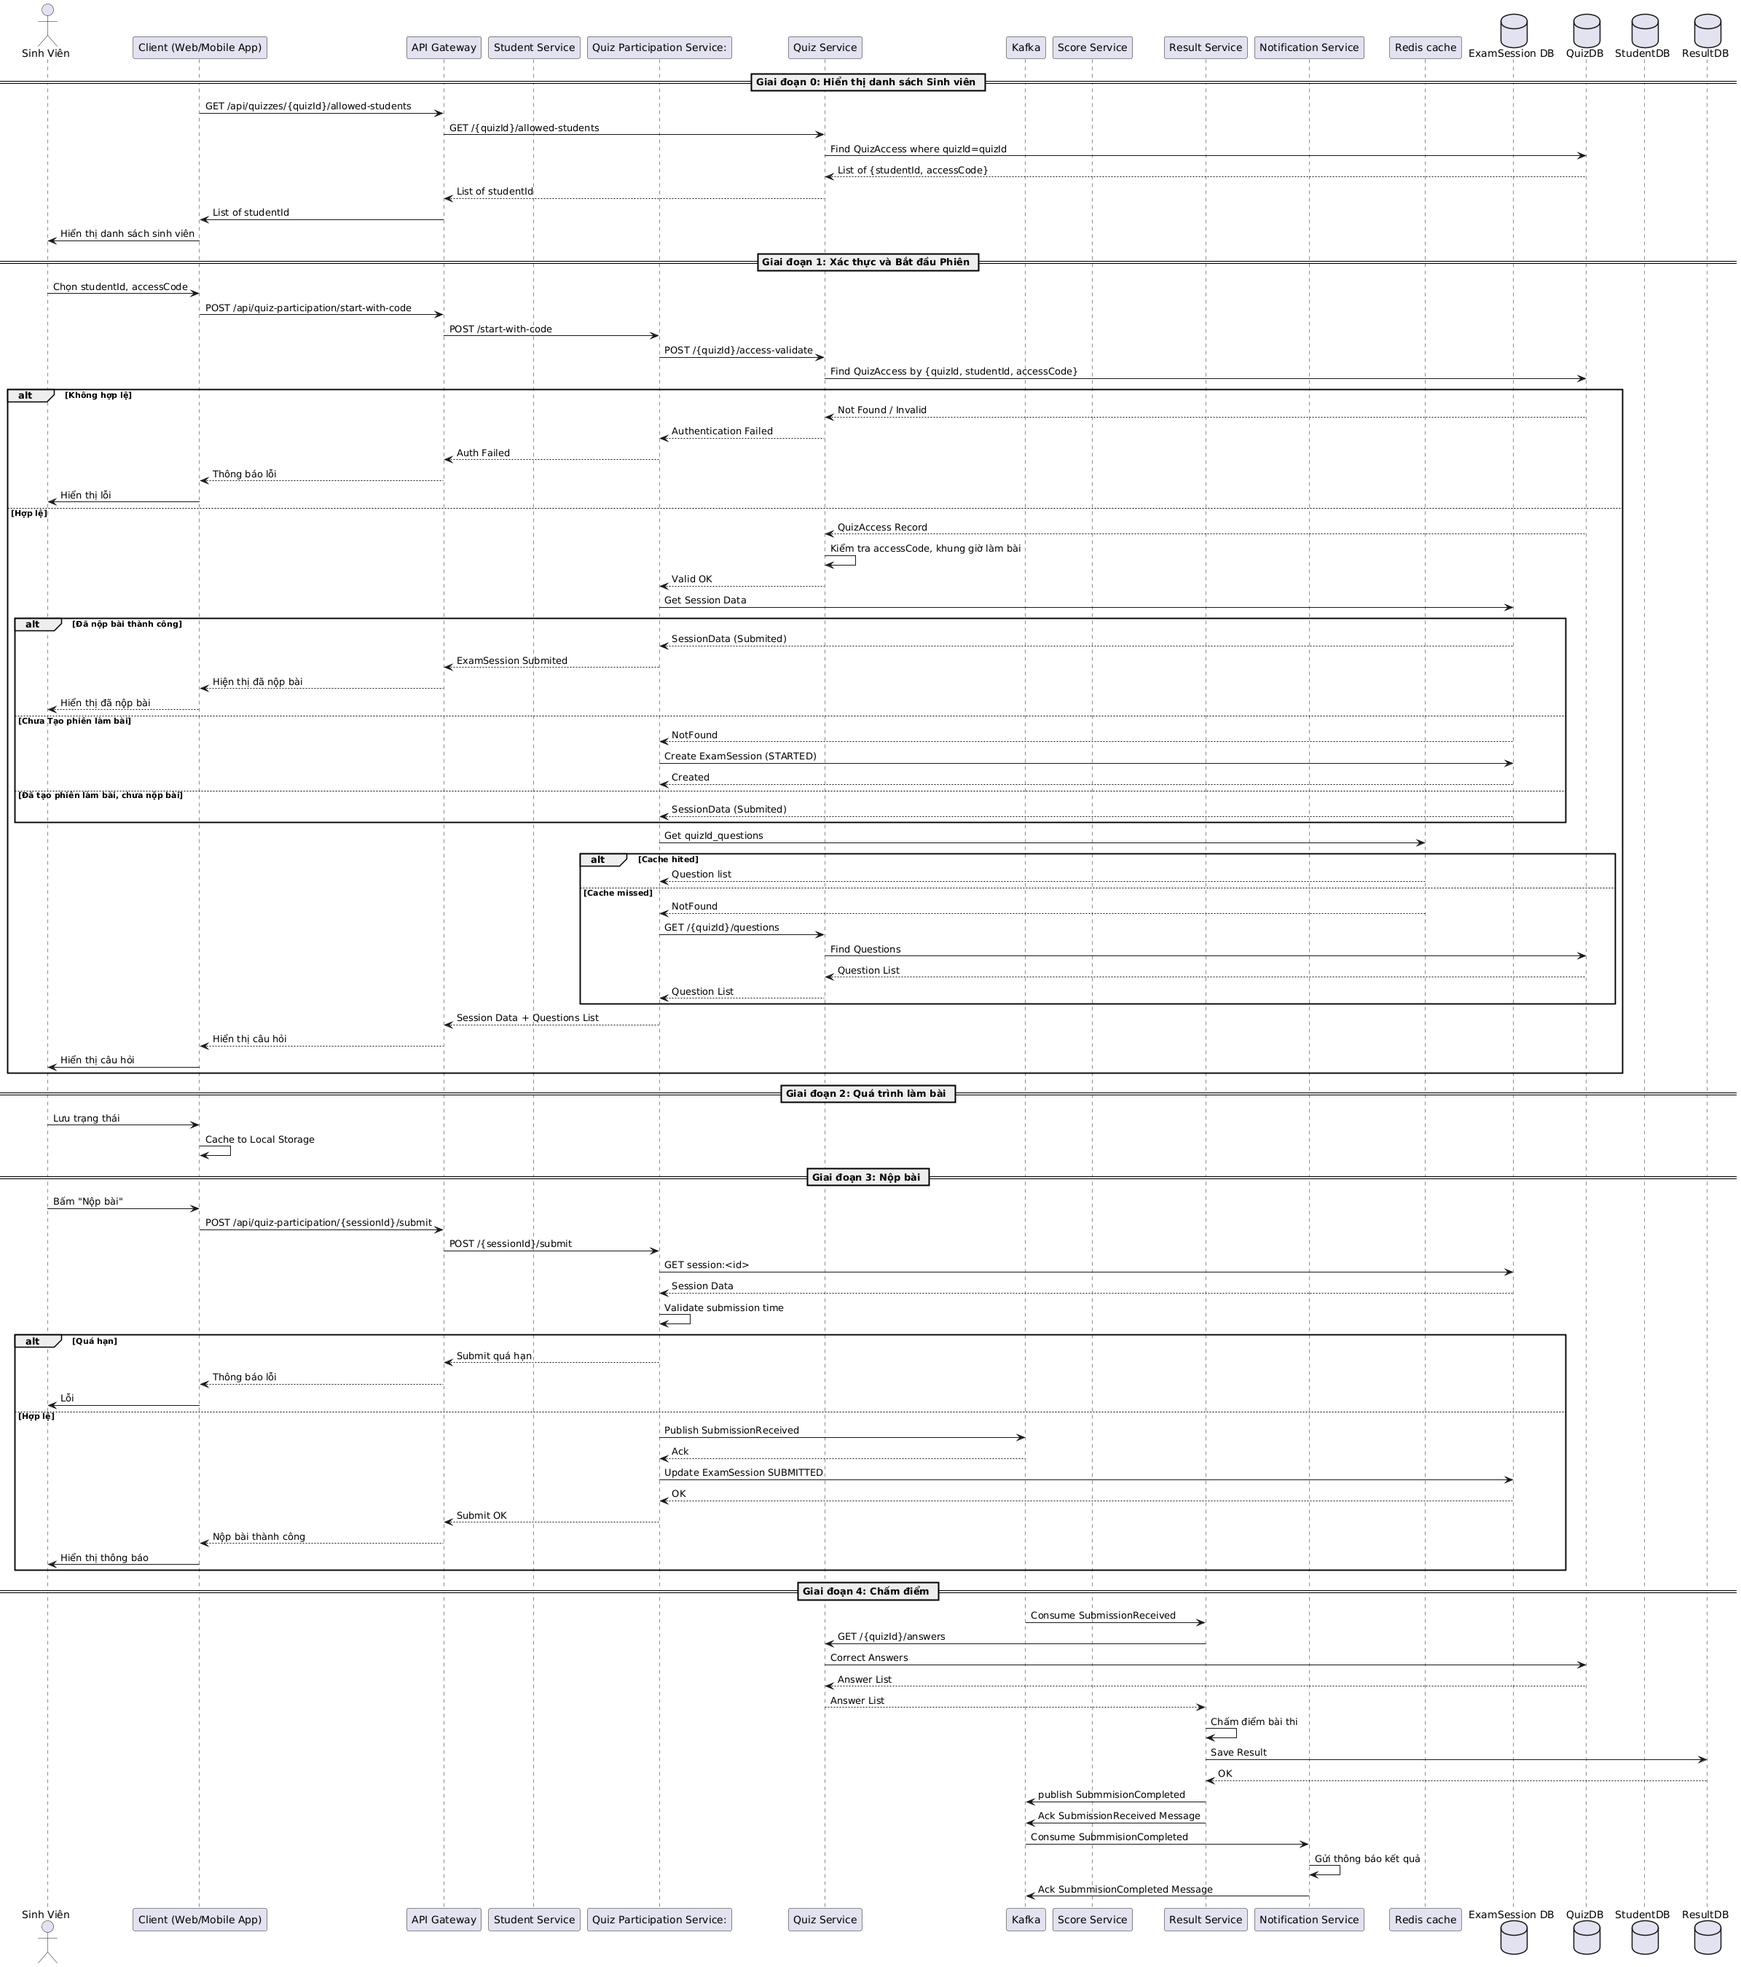
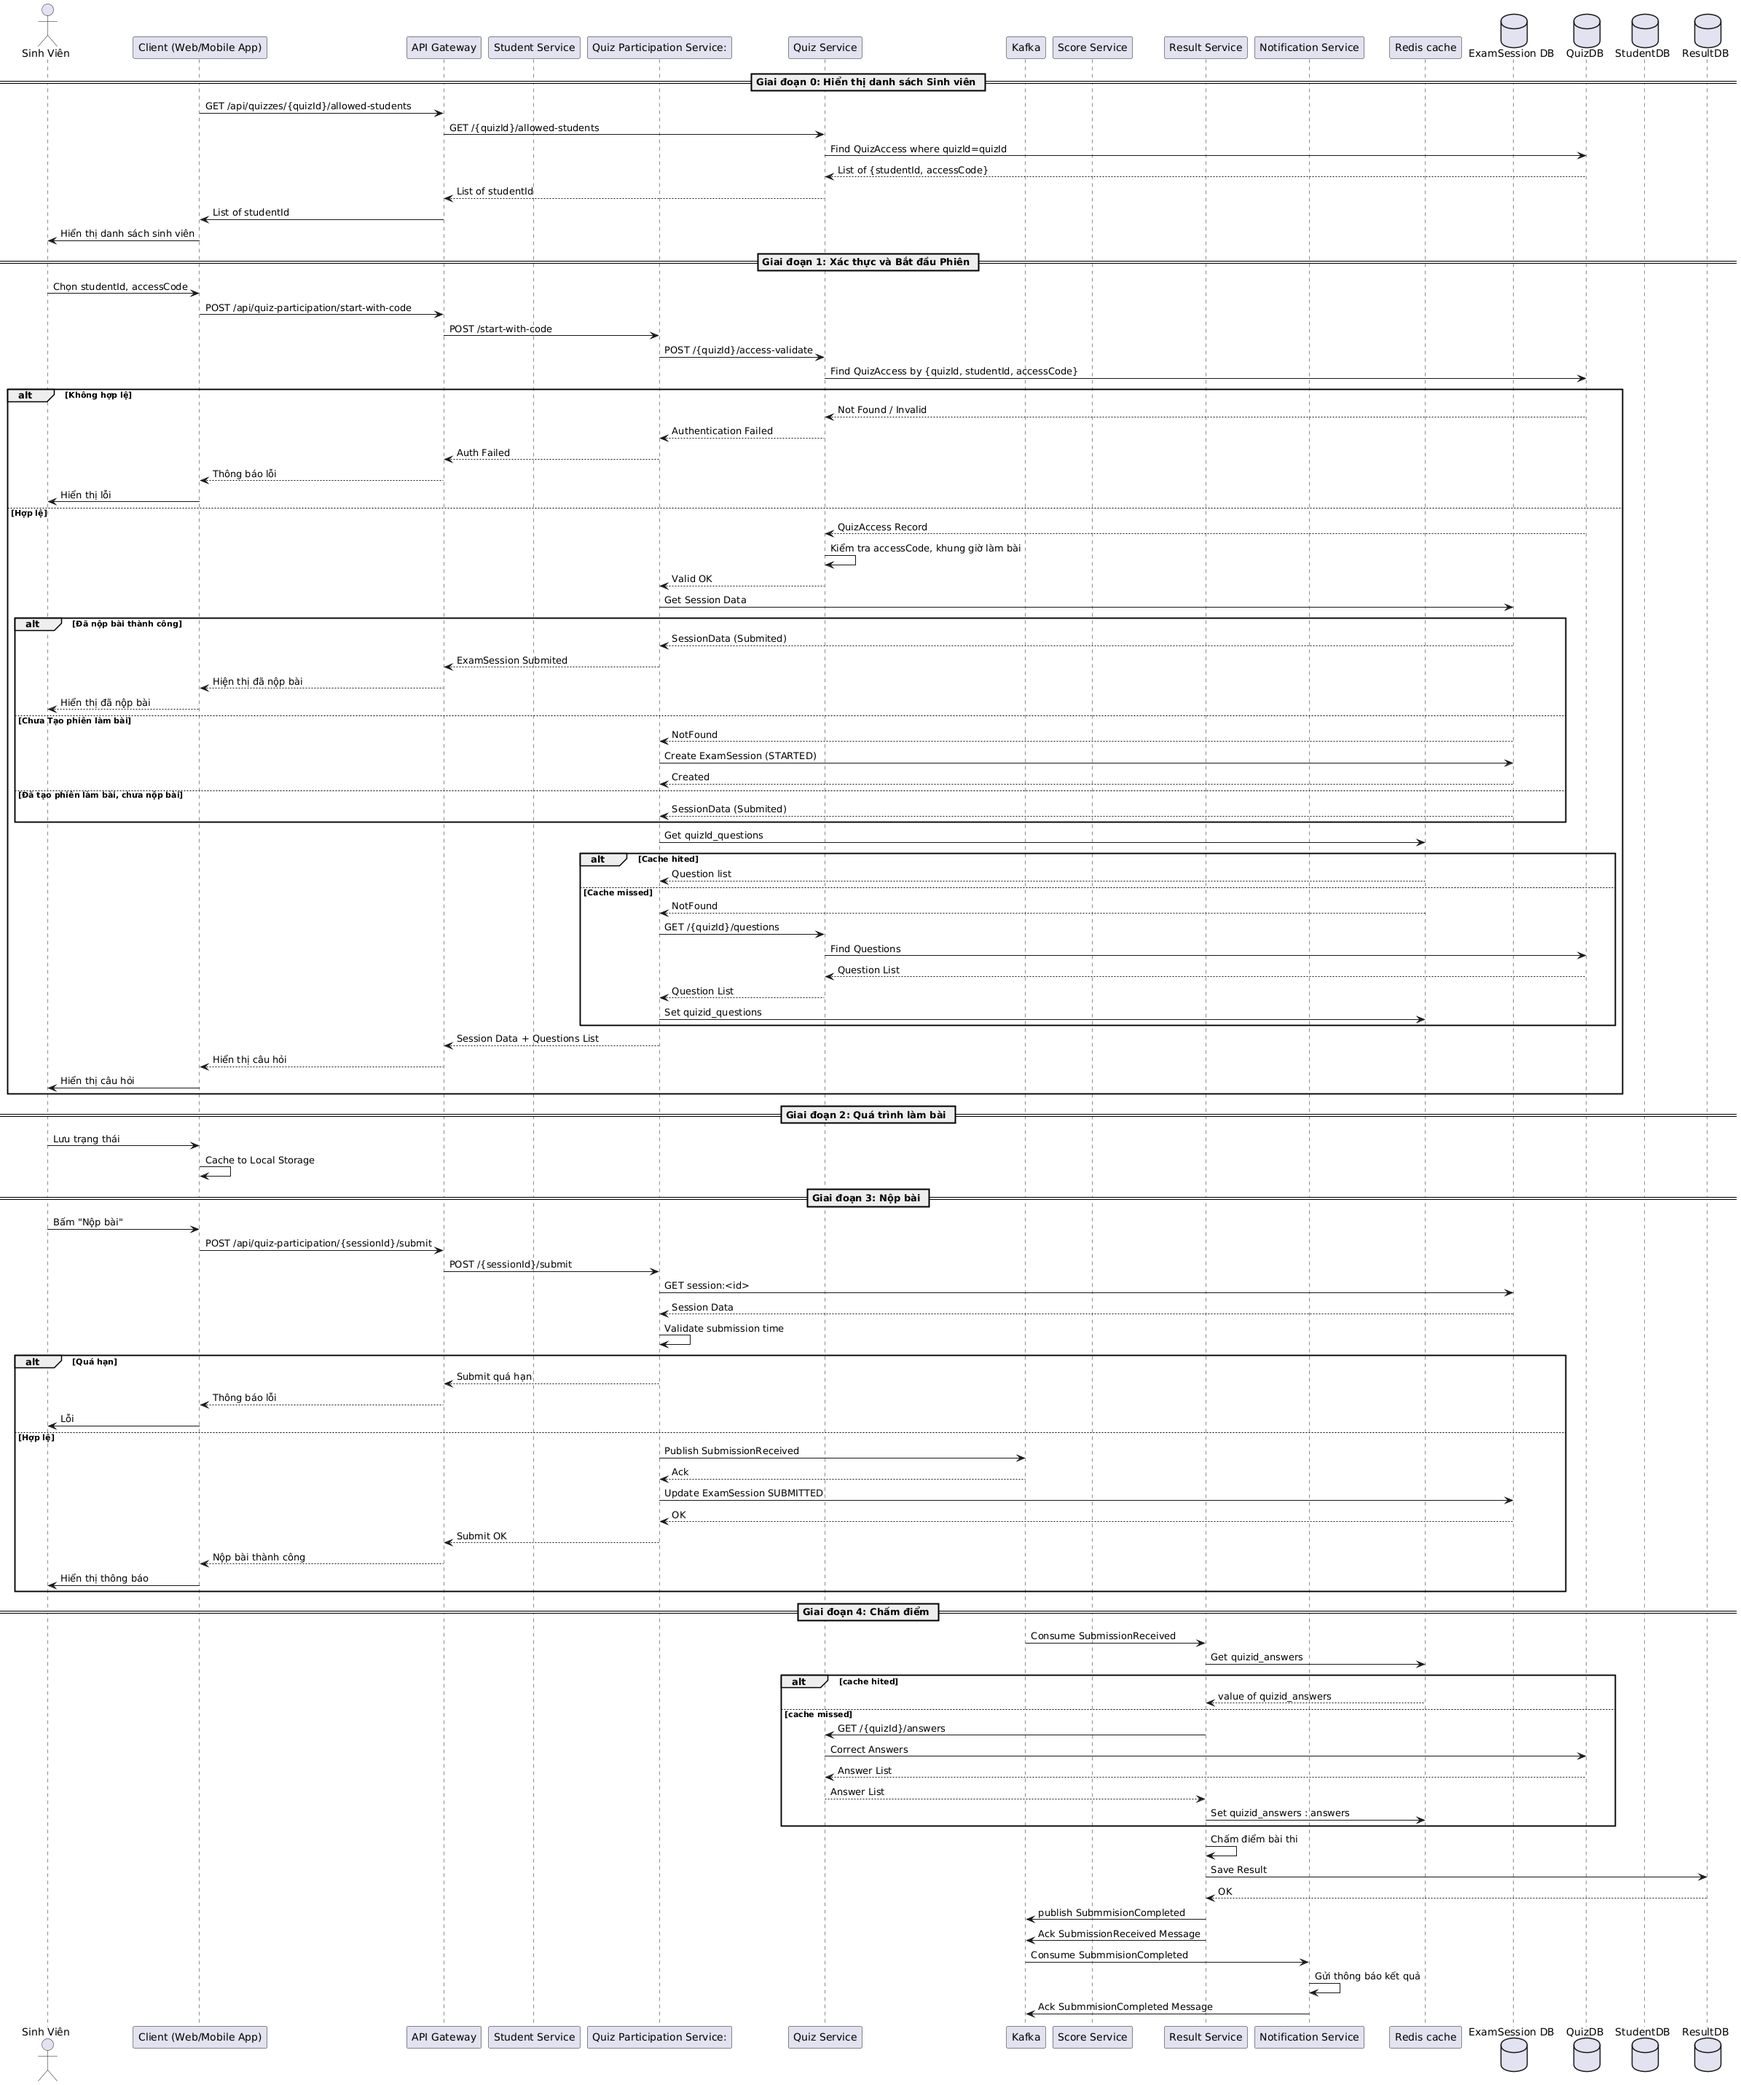
init docker compose infra services

diff --git a/services/quiz-participation-service/src/main/java/com/ptit/soa2025/quizparticipationservice/config/RestTemplateConfig.java b/services/quiz-participation-service/src/main/java/com/ptit/soa2025/quizparticipationservice/config/RestTemplateConfig.java
@@ -1,31 +1,31 @@
-package com.ptit.soa2025.quizparticipationservice.config;
-
-import org.springframework.beans.factory.annotation.Value;
-import org.springframework.boot.web.client.RestTemplateBuilder;
-import org.springframework.context.annotation.Bean;
-import org.springframework.context.annotation.Configuration;
-import org.springframework.web.client.RestTemplate;
-
-import java.time.Duration;
-
-@Configuration
-public class RestTemplateConfig {
-    
-    @Value("${services.quiz-service.url}")
-    private String quizServiceUrl;
-    
-    @Value("${services.connection.timeout:5000}")
-    private int connectionTimeout;
-    
-    @Value("${services.read.timeout:5000}")
-    private int readTimeout;
-    
-    @Bean(name = "quizServiceRestTemplate")
-    public RestTemplate quizServiceRestTemplate() {
-        return new RestTemplateBuilder()
-                .rootUri(quizServiceUrl)
-                .setConnectTimeout(Duration.ofMillis(connectionTimeout))
-                .setReadTimeout(Duration.ofMillis(readTimeout))
-                .build();
-    }
-}
+//package com.ptit.soa2025.quizparticipationservice.config;
+//
+//import org.springframework.beans.factory.annotation.Value;
+//import org.springframework.boot.web.client.RestTemplateBuilder;
+//import org.springframework.context.annotation.Bean;
+//import org.springframework.context.annotation.Configuration;
+//import org.springframework.web.client.RestTemplate;
+//
+//import java.time.Duration;
+//
+//@Configuration
+//public class RestTemplateConfig {
+//
+//    @Value("${services.quiz-service.url}")
+//    private String quizServiceUrl;
+//
+//    @Value("${services.connection.timeout:5000}")
+//    private int connectionTimeout;
+//
+//    @Value("${services.read.timeout:5000}")
+//    private int readTimeout;
+//
+//    @Bean(name = "quizServiceRestTemplate")
+//    public RestTemplate quizServiceRestTemplate() {
+//        return new RestTemplateBuilder()
+//                .rootUri(quizServiceUrl)
+//                .setConnectTimeout(Duration.ofMillis(connectionTimeout))
+//                .setReadTimeout(Duration.ofMillis(readTimeout))
+//                .build();
+//    }
+//}
